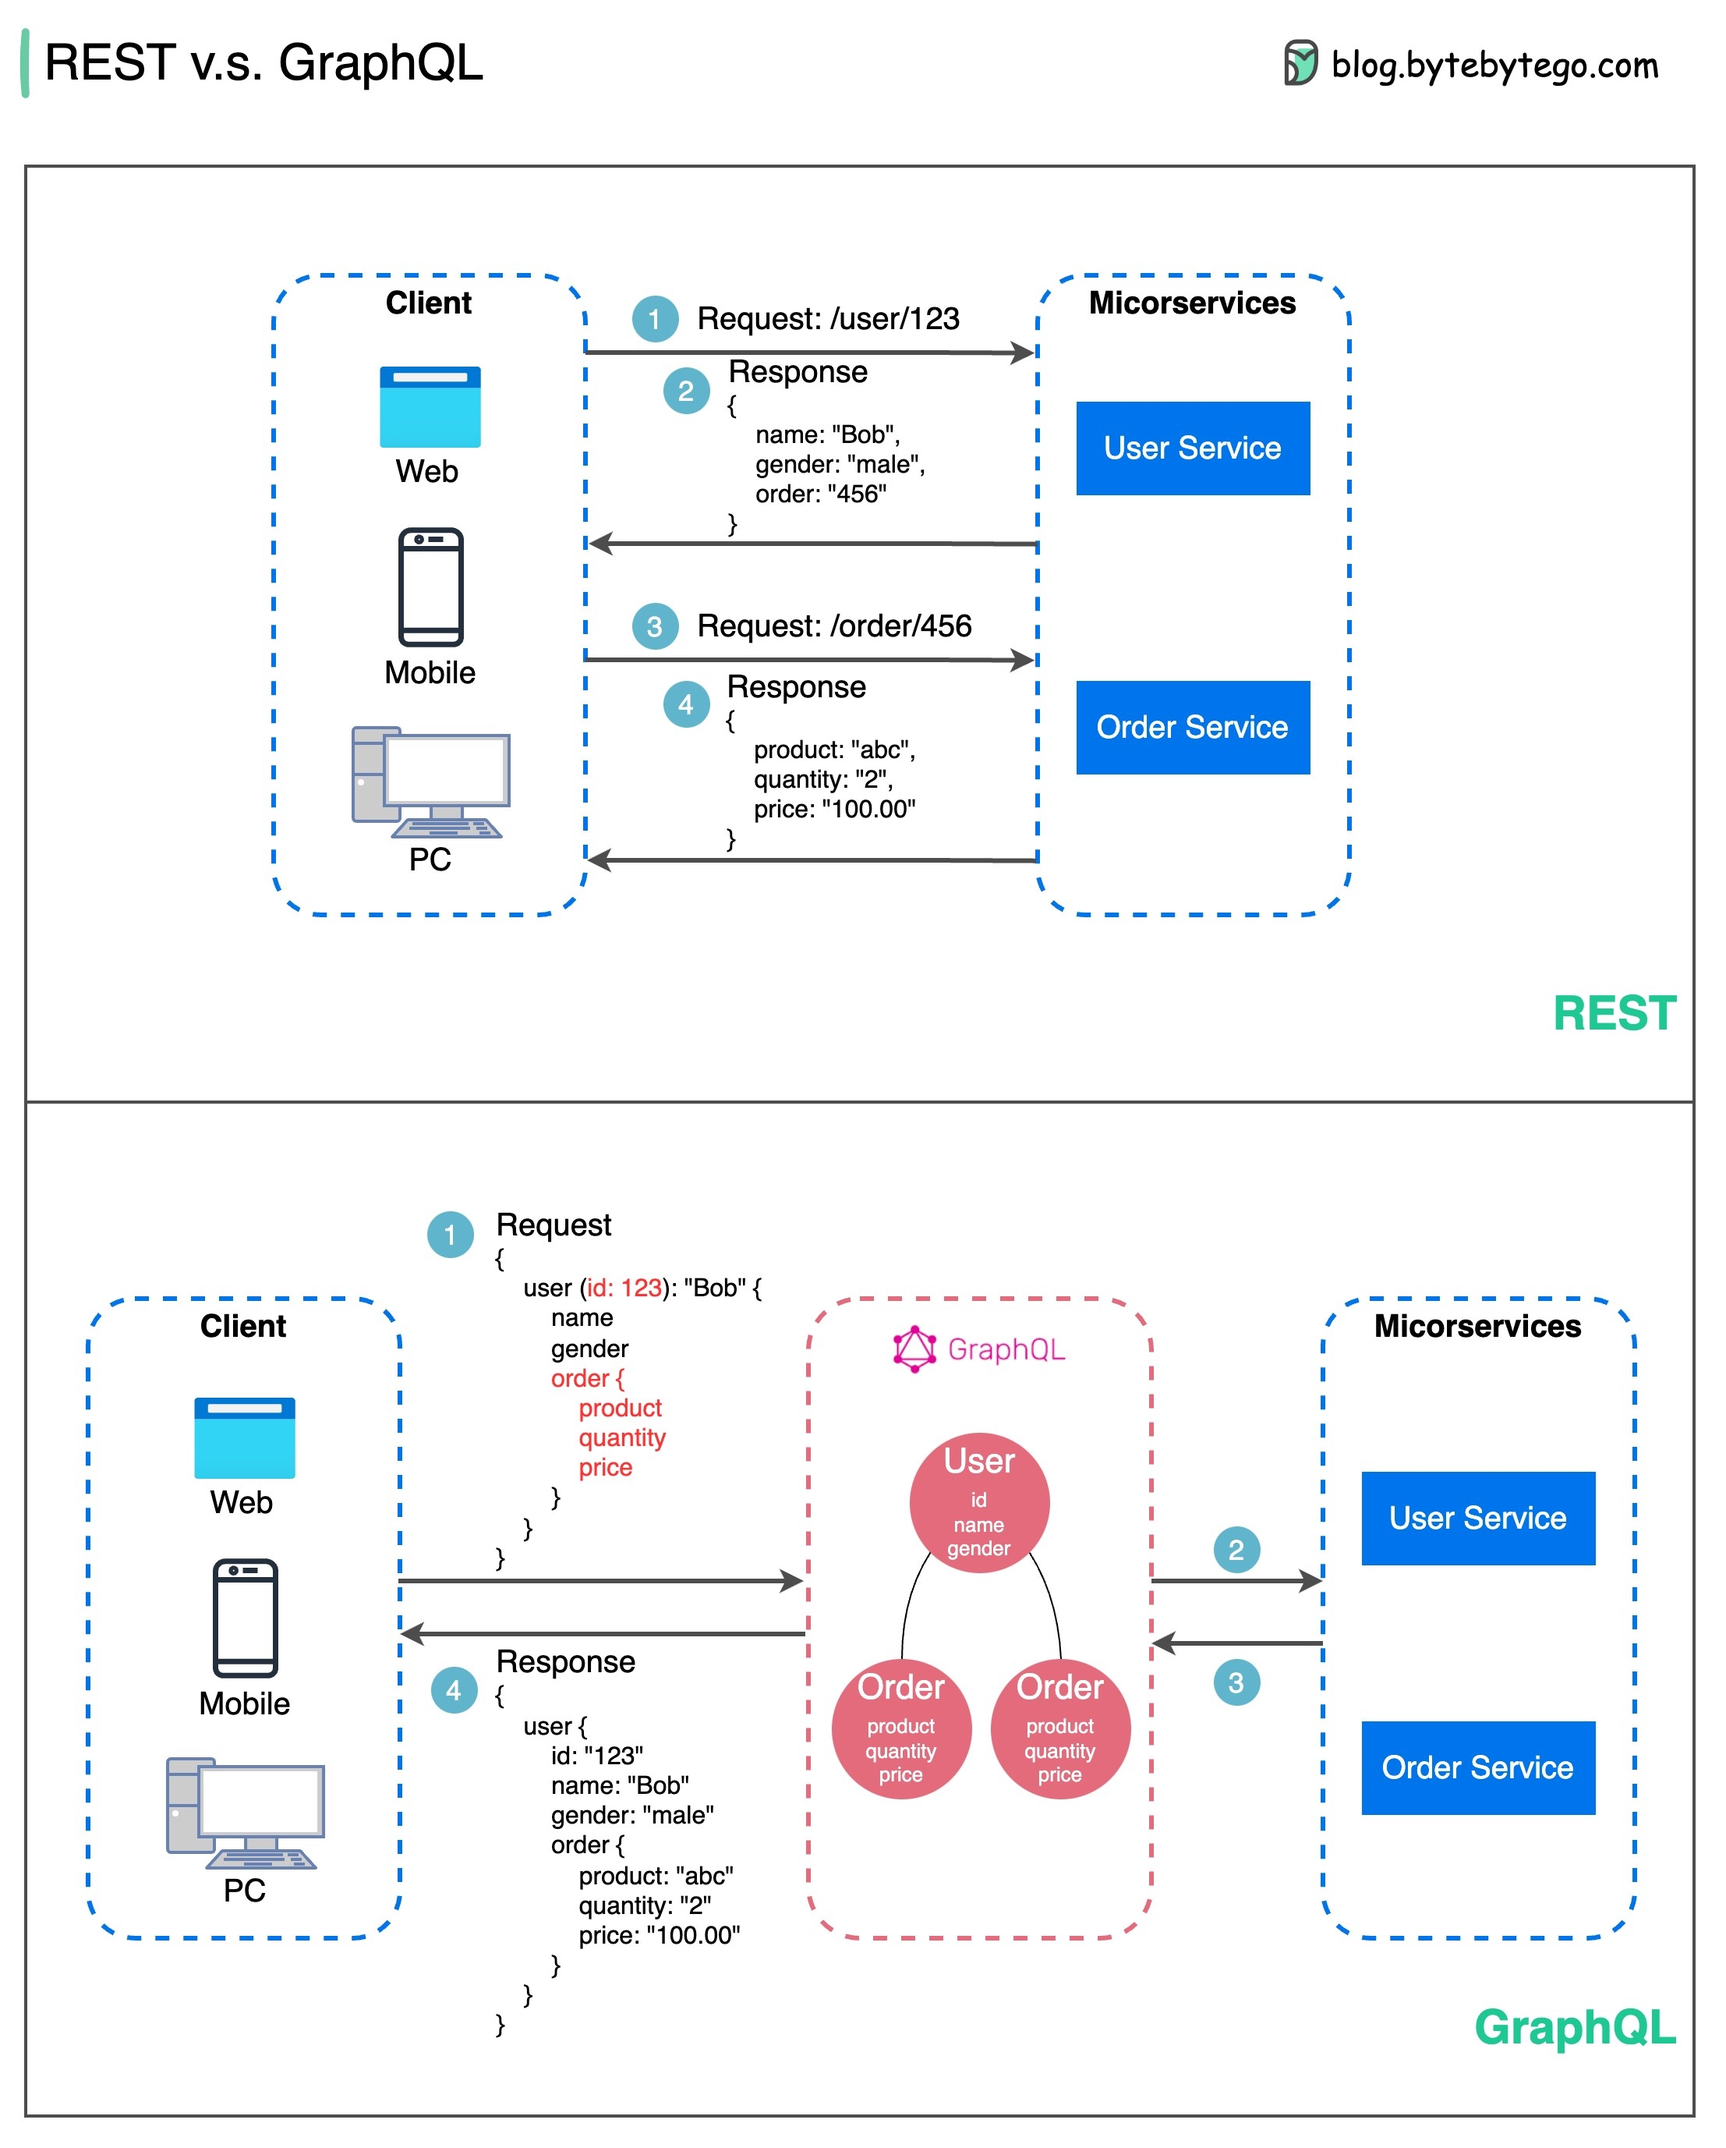
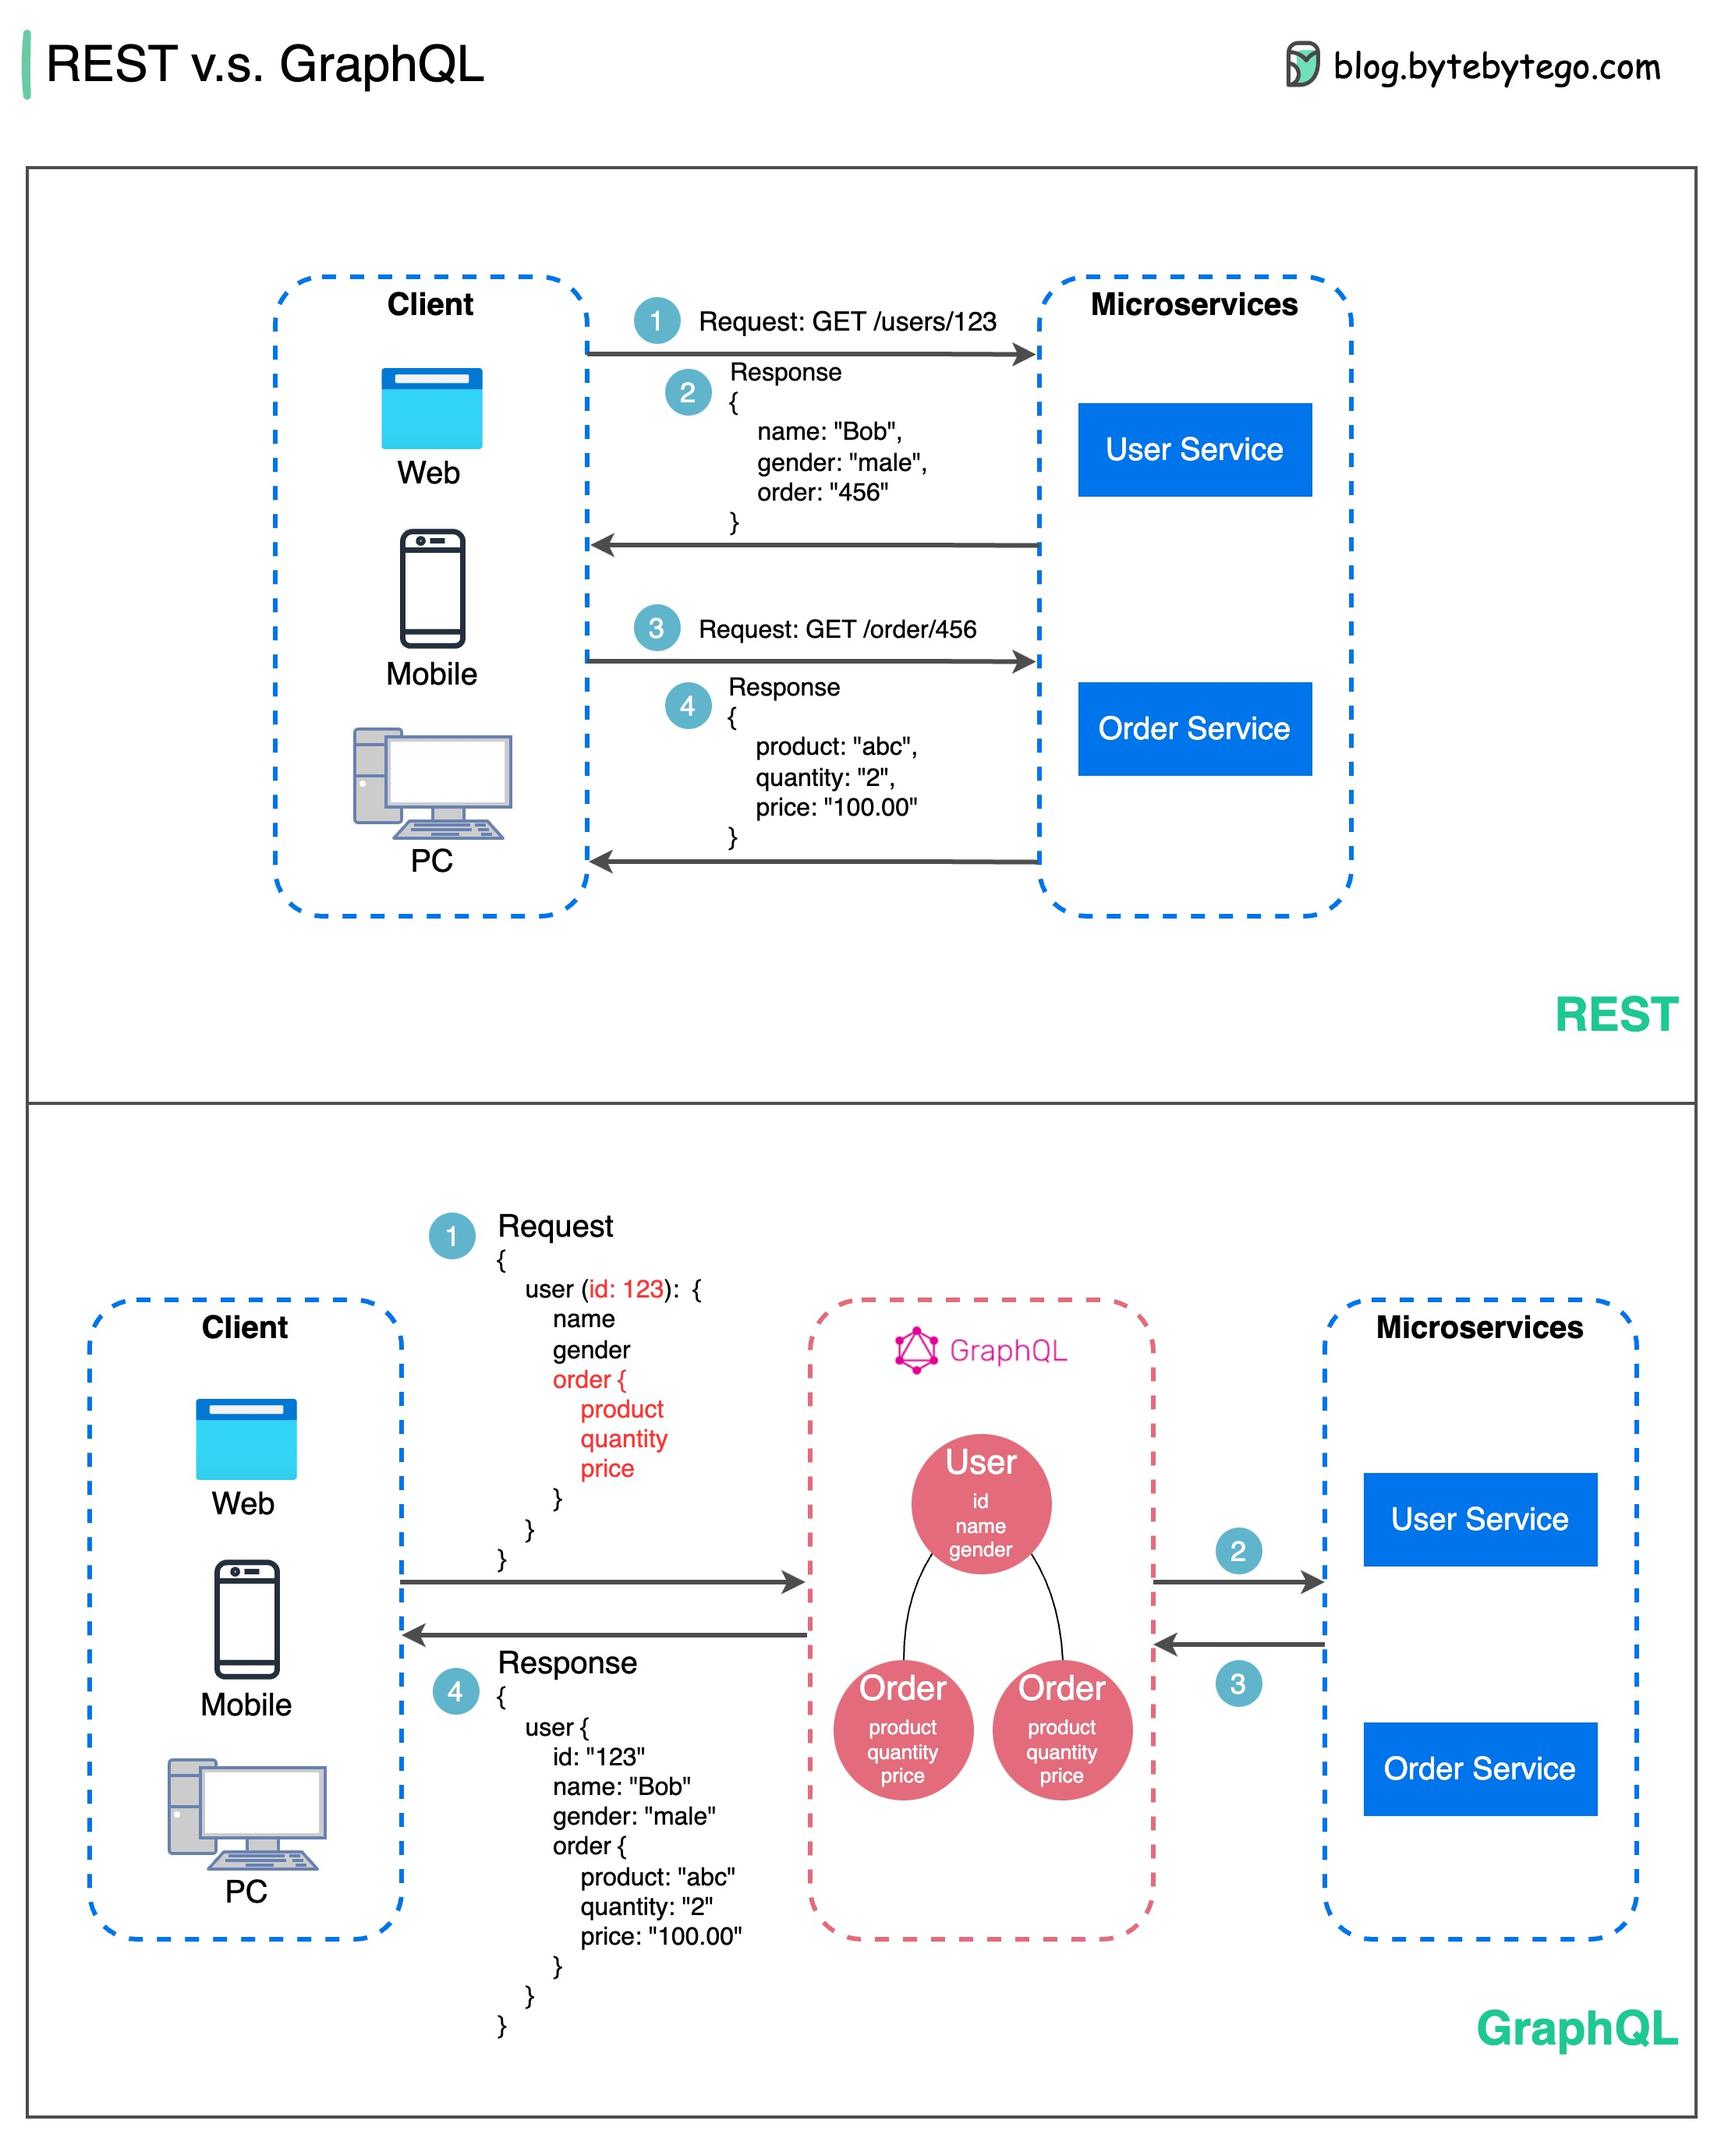
Improve "REST vs GraphQL" (#44)
- Update REST vs GraphQL text
- Fix typos and errors in diagram

diff --git a/README.md b/README.md
@@ -153,19 +153,34 @@ Architecture styles define how different components of an application programmin
 
 ### REST API vs. GraphQL
 
-The diagram below shows a quick comparison between REST and GraphQL.
+When it comes to API design, REST and GraphQL each have their own strengths and weaknesses.
 
+The diagram below shows a quick comparison between REST and GraphQL.
 
 <p>
   <img src="images/graphQL.jpg">
 </p>
 
-- GraphQL is a query language for APIs developed by Meta. It provides a complete description of the data in the API and gives clients the power to ask for exactly what they need.
+REST
 
-- GraphQL servers sit in between the client and the backend services.
-GraphQL can aggregate multiple REST requests into one query. GraphQL server organizes the resources in a graph.
+- Uses standard HTTP methods like GET, POST, PUT, DELETE for CRUD operations.
+- Works well when you need simple, uniform interfaces between separate services/applications.
+- Caching strategies are straightforward to implement.
+- The downside is it may require multiple roundtrips to assemble related data from separate endpoints.
 
-- GraphQL supports queries, mutations (applying data modifications to resources), and subscriptions (receiving notifications on schema modifications).
+GraphQL
+
+- Provides a single endpoint for clients to query for precisely the data they need.
+- Clients specify the exact fields required in nested queries, and the server returns optimized payloads containing just those fields.
+- Supports Mutations for modifying data and Subscriptions for real-time notifications.
+- Great for aggregating data from multiple sources and works well with rapidly evolving frontend requirements.
+- However, it shifts complexity to the client side and can allow abusive queries if not properly safeguarded
+- Caching strategies can be more complicated than REST.
+
+The best choice between REST and GraphQL depends on the specific requirements of the application and development team. GraphQL is a good fit for complex or frequently changing frontend needs, while REST suits applications where simple and consistent contracts are preferred.
+
+Neither API approach is a silver bullet. Carefully evaluating requirements and tradeoffs is important to pick the right style. Both REST and GraphQL are valid options for exposing data and powering modern applications.
+
 
 ### How does gRPC work?
 
